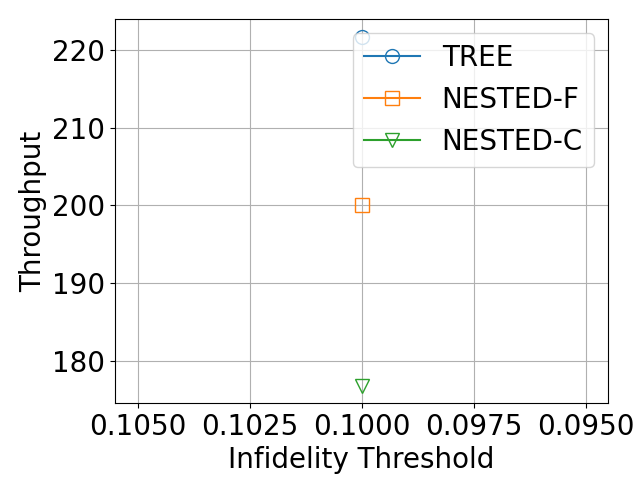
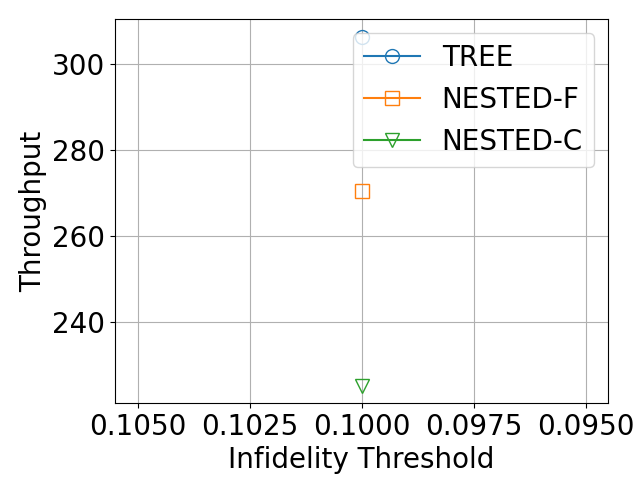
accepted version, finalized.

diff --git a/src/eval_net_ton.py b/src/eval_net_ton.py
@@ -375,11 +375,11 @@ def plot():
 
     fid = 0
     tps = {
-        'TREE': [ y[0][fid] for y in yss],
-        'GRDY': [ y[1][fid] for y in yss],
-        'EPP': [ y[2][fid] for y in yss],
-        'NESTED_F': [ y[3][fid] for y in yss],
-        'NESTED_C': [ y[4][fid] for y in yss],
+        'TREE': [ int(y[0][fid]) for y in yss],
+        'GRDY': [ int(y[1][fid]) for y in yss],
+        'EPP': [ int(y[2][fid]) for y in yss],
+        'NESTED_F': [ int(y[3][fid]) for y in yss],
+        'NESTED_C': [ int(y[4][fid]) for y in yss],
     }
 
     filename = f"./data/net/dp_net_tp-{fid}.png"
@@ -426,11 +426,11 @@ def plot_werner():
         _, ys, xlabel, ylabel, labels, _ = pickle.load(open(filename, "rb"))
         yss.append(ys)
 
-    fid = 2
+    fid = 0
     tps = {
-        'TREE': [ y[0][fid] for y in yss],
-        'NESTED_F': [ y[1][fid] for y in yss],
-        'NESTED_C': [ y[2][fid] for y in yss],
+        'TREE': [ int(y[0][fid]) for y in yss],
+        'NESTED_F': [ int(y[1][fid]) for y in yss],
+        'NESTED_C': [ int(y[2][fid]) for y in yss],
     }
 
     filename = f"./data/net/wn_net_tp-{fid}.png"
@@ -475,11 +475,11 @@ if __name__ == '__main__':
     #     avg_edge_num += len(topology.edges)
     # print(avg_edge_num / 100)
 
-    test_dp_tp_by_fth('small', 20)
+    # test_dp_tp_by_fth('small', 20)
     # test_dp_tp_by_fth('medium', 10)
     # test_dp_tp_by_fth('large', 10)
 
-    plot()
+    # plot()
 
     # test_wn_tp_by_fth('small', 10)
     # test_wn_tp_by_fth('medium', 10)
@@ -498,7 +498,7 @@ if __name__ == '__main__':
     # test_wn_tp_by_methods('medium', 10, qu.GWD)
     # test_wn_tp_by_methods('large', 10, qu.GWD)
 
-    # plot_werner()
+    plot_werner()
 
     # test_wn_tp_by_methods('small', 20, qu.GWM)
     # test_wn_tp_by_methods('medium', 10, qu.GWM)

diff --git a/tests/test.py b/tests/test.py
@@ -1,12 +1,17 @@
 
-from src.physical.quantum import GWP
+from src.physical.quantum import GWP, GWH_D
 
 if __name__ == "__main__":
     
-    f_e = 0.8
+    f_e = 0.85
     
-    N = 100
+    N = 8
     f = f_e
     for i in range(N // 2):
         f, _ = GWP.purify(f, f)
+        # f, _ = GWH_D.purify(f, f)
         print(f)
+
+    # for i in range(9-1):
+    #     f, _ = GWP.swap(f, f)
+    # print(f)

diff --git a/README.md b/README.md
@@ -6,8 +6,6 @@ Joint Swapping and Purification with Failures for Entanglement Distribution in Q
 Jiyao Liu, Xinwen Zhang, Xinliang Wei, Xuanzhang Liu, Yuzhou Chen, Hongchang Gao, Yu Wang  
 IEEE/ACM International Symposium on Quality of Service (IWQoS 2025)  
 
-Swapping and Purification Scheme Optimization for
-Entanglement Distribution in Quantum Networks  
+Swapping and Purification Scheme Optimization for Entanglement Distribution in Quantum Networks  
 Jiyao Liu, Xinwen Zhang, Xinliang Wei, Xuanzhang Liu, Yuzhou Chen, Hongchang Gao, Yu Wang  
-Under Review  
-
+IEEE Transactions on Networking. 2026.
